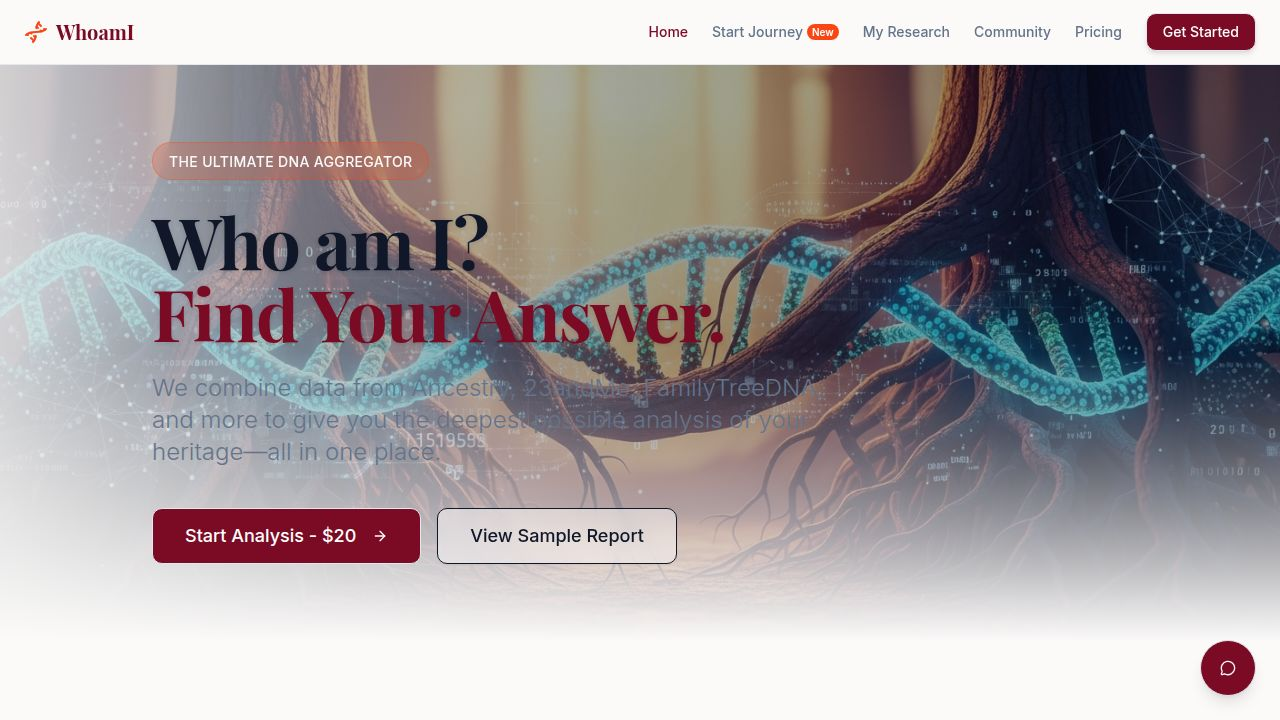
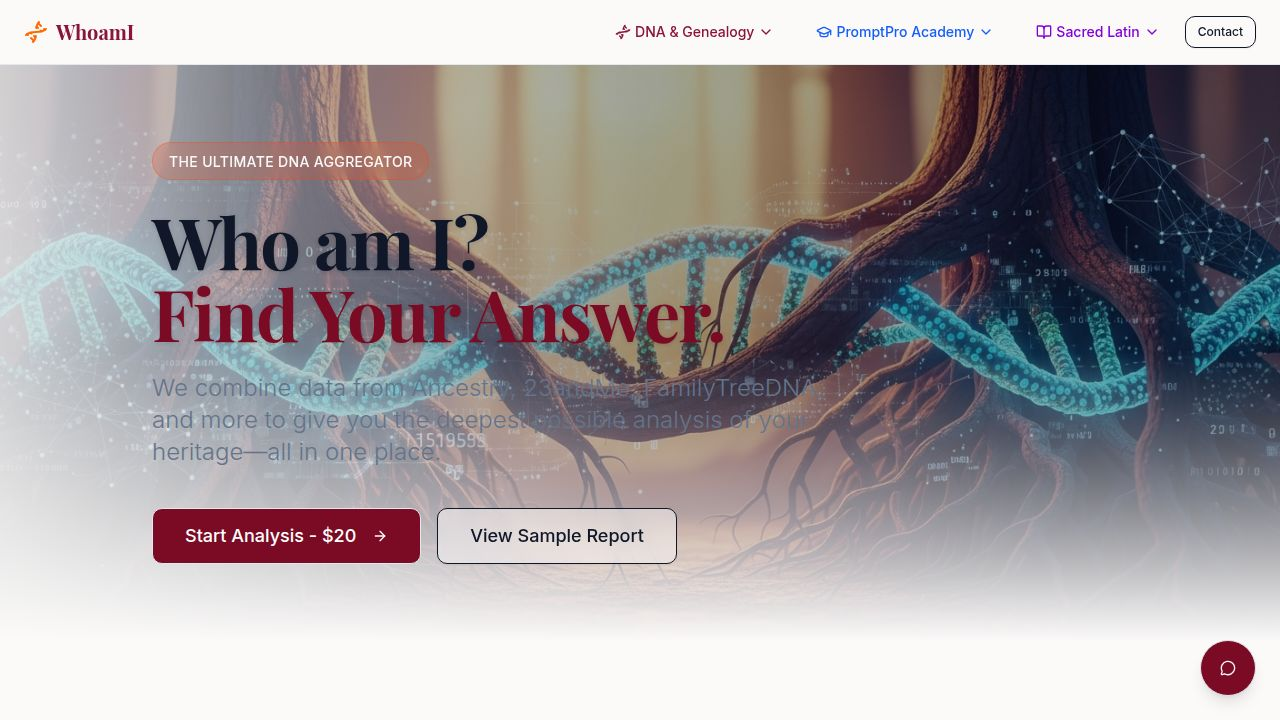
Organize site navigation with dropdown menus for each business section
Update Navbar component to group links into dropdown menus for DNA & Genealogy, PromptPro Academy, and Sacred Latin Course, improving site organization.

Replit-Commit-Author: Agent
Replit-Commit-Session-Id: a95ecaea-4d57-41a1-8dbe-08443d1b851d
Replit-Commit-Checkpoint-Type: full_checkpoint
Replit-Commit-Event-Id: fd363b03-2360-47fe-8af0-eb190cbb2ed1
Replit-Commit-Screenshot-Url: https://storage.googleapis.com/screenshot-production-us-central1/dd380d11-c439-4c32-8e07-b15dbaf14512/a95ecaea-4d57-41a1-8dbe-08443d1b851d/iduYzGl
Replit-Helium-Checkpoint-Created: true

Changed region(s): [[0.4688, 0.0, 1.0, 0.0917], [0.0, 0.0306, 0.0312, 0.0611]]

diff --git a/client/src/components/layout/Navbar.tsx b/client/src/components/layout/Navbar.tsx
@@ -1,20 +1,54 @@
 import { Link, useLocation } from "wouter";
-import { Dna, Map, Users, CreditCard, Menu, Compass, FolderHeart } from "lucide-react";
+import { Dna, GraduationCap, BookOpen, Menu, ChevronDown } from "lucide-react";
 import { useState } from "react";
 import { Button } from "@/components/ui/button";
 import { Sheet, SheetContent, SheetTrigger } from "@/components/ui/sheet";
-import { Badge } from "@/components/ui/badge";
+import {
+  DropdownMenu,
+  DropdownMenuContent,
+  DropdownMenuItem,
+  DropdownMenuTrigger,
+} from "@/components/ui/dropdown-menu";
 
 export function Navbar() {
   const [location] = useLocation();
   const [isOpen, setIsOpen] = useState(false);
 
-  const navItems = [
-    { href: "/", label: "Home", icon: Dna },
-    { href: "/journey", label: "Start Journey", icon: Compass, isNew: true },
-    { href: "/my-research", label: "My Research", icon: FolderHeart },
-    { href: "/forum", label: "Community", icon: Users },
-    { href: "/pricing", label: "Pricing", icon: CreditCard },
+  const businesses = [
+    {
+      name: "DNA & Genealogy",
+      icon: Dna,
+      color: "text-[#8B1538]",
+      bgColor: "bg-[#8B1538]",
+      links: [
+        { href: "/", label: "Home" },
+        { href: "/journey", label: "DNA Journey" },
+        { href: "/my-research", label: "My Research" },
+        { href: "/heritage-book-preview", label: "Heritage Book" },
+        { href: "/pricing", label: "Pricing" },
+      ],
+    },
+    {
+      name: "PromptPro Academy",
+      icon: GraduationCap,
+      color: "text-blue-600",
+      bgColor: "bg-blue-600",
+      links: [
+        { href: "/academy", label: "Academy Home" },
+        { href: "/learn-prompt-engineering", label: "Lessons" },
+        { href: "/prompt-library", label: "Prompt Library" },
+        { href: "/academy-forum", label: "Community" },
+      ],
+    },
+    {
+      name: "Sacred Latin",
+      icon: BookOpen,
+      color: "text-purple-700",
+      bgColor: "bg-purple-700",
+      links: [
+        { href: "/latin-course", label: "Latin Course" },
+      ],
+    },
   ];
 
   return (
@@ -22,58 +56,93 @@ export function Navbar() {
       <div className="container flex h-16 items-center justify-between px-4 md:px-6">
         <Link 
           href="/"
-          className="flex items-center gap-2 font-serif text-xl font-bold text-primary hover:opacity-90 transition-opacity"
+          className="flex items-center gap-2 font-serif text-xl font-bold text-[#8B1538] hover:opacity-90 transition-opacity"
+          data-testid="link-home-logo"
         >
-          <Dna className="h-6 w-6 text-accent" />
+          <Dna className="h-6 w-6 text-orange-500" />
           <span>WhoamI</span>
         </Link>
 
         {/* Desktop Nav */}
-        <div className="hidden md:flex items-center gap-6">
-          {navItems.map((item) => (
-            <Link 
-              key={item.href} 
-              href={item.href}
-              className={`text-sm font-medium transition-colors hover:text-primary flex items-center gap-1 ${
-                location === item.href
-                  ? "text-primary font-bold"
-                  : "text-muted-foreground"
-              }`}
-            >
-              {item.label}
-              {(item as any).isNew && <Badge variant="secondary" className="text-[10px] px-1 py-0 h-4 bg-accent text-white">New</Badge>}
-            </Link>
+        <div className="hidden md:flex items-center gap-2">
+          {businesses.map((business) => (
+            <DropdownMenu key={business.name}>
+              <DropdownMenuTrigger asChild>
+                <Button 
+                  variant="ghost" 
+                  className={`flex items-center gap-1 ${business.color} hover:bg-gray-100`}
+                  data-testid={`dropdown-${business.name.toLowerCase().replace(/\s+/g, '-')}`}
+                >
+                  <business.icon className="h-4 w-4" />
+                  <span className="text-sm font-medium">{business.name}</span>
+                  <ChevronDown className="h-3 w-3" />
+                </Button>
+              </DropdownMenuTrigger>
+              <DropdownMenuContent align="center" className="w-48">
+                {business.links.map((link) => (
+                  <DropdownMenuItem key={link.href} asChild>
+                    <Link 
+                      href={link.href}
+                      className={`w-full cursor-pointer ${location === link.href ? 'font-bold' : ''}`}
+                      data-testid={`link-${link.label.toLowerCase().replace(/\s+/g, '-')}`}
+                    >
+                      {link.label}
+                    </Link>
+                  </DropdownMenuItem>
+                ))}
+              </DropdownMenuContent>
+            </DropdownMenu>
           ))}
-          <Button variant="default" className="bg-primary hover:bg-primary/90 text-white shadow-md">
-            Get Started
-          </Button>
+          <Link href="/contact">
+            <Button 
+              variant="outline" 
+              size="sm"
+              data-testid="link-contact"
+            >
+              Contact
+            </Button>
+          </Link>
         </div>
 
         {/* Mobile Nav */}
         <div className="md:hidden">
           <Sheet open={isOpen} onOpenChange={setIsOpen}>
             <SheetTrigger asChild>
-              <Button variant="ghost" size="icon">
+              <Button variant="ghost" size="icon" data-testid="button-mobile-menu">
                 <Menu className="h-6 w-6" />
                 <span className="sr-only">Toggle menu</span>
               </Button>
             </SheetTrigger>
-            <SheetContent side="right">
+            <SheetContent side="right" className="w-80">
               <div className="flex flex-col gap-6 mt-6">
-                {navItems.map((item) => (
-                  <Link 
-                    key={item.href} 
-                    href={item.href}
-                    className={`flex items-center gap-2 text-lg font-medium ${
-                      location === item.href ? "text-primary" : "text-muted-foreground"
-                    }`}
-                    onClick={() => setIsOpen(false)}
-                  >
-                    <item.icon className="h-5 w-5" />
-                    {item.label}
-                  </Link>
+                {businesses.map((business) => (
+                  <div key={business.name} className="space-y-2">
+                    <div className={`flex items-center gap-2 ${business.color} font-semibold text-lg border-b pb-2`}>
+                      <business.icon className="h-5 w-5" />
+                      {business.name}
+                    </div>
+                    <div className="pl-4 space-y-2">
+                      {business.links.map((link) => (
+                        <Link 
+                          key={link.href} 
+                          href={link.href}
+                          className={`block text-base ${
+                            location === link.href ? business.color + " font-medium" : "text-muted-foreground"
+                          }`}
+                          onClick={() => setIsOpen(false)}
+                          data-testid={`mobile-link-${link.label.toLowerCase().replace(/\s+/g, '-')}`}
+                        >
+                          {link.label}
+                        </Link>
+                      ))}
+                    </div>
+                  </div>
                 ))}
-                <Button className="w-full bg-accent hover:bg-accent/90">Get Started</Button>
+                <Link href="/contact" onClick={() => setIsOpen(false)}>
+                  <Button className="w-full" variant="outline" data-testid="mobile-link-contact">
+                    Contact Us
+                  </Button>
+                </Link>
               </div>
             </SheetContent>
           </Sheet>
